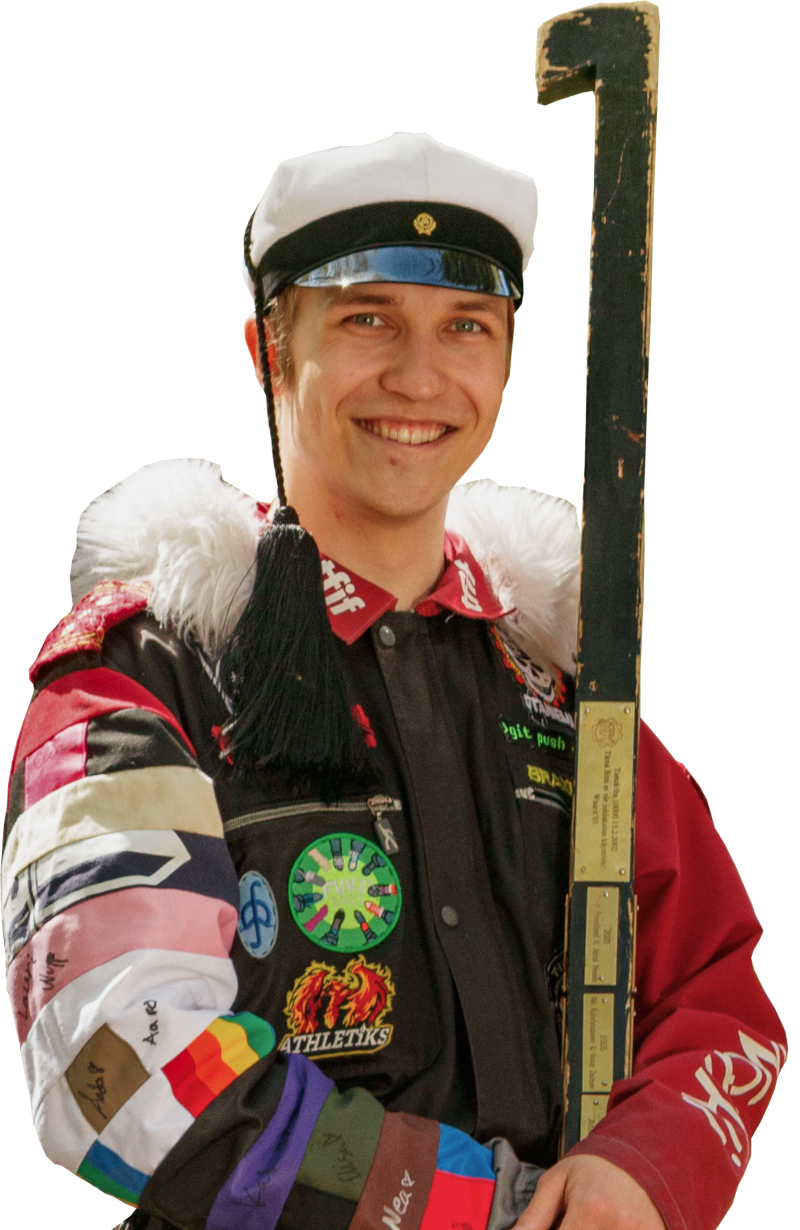
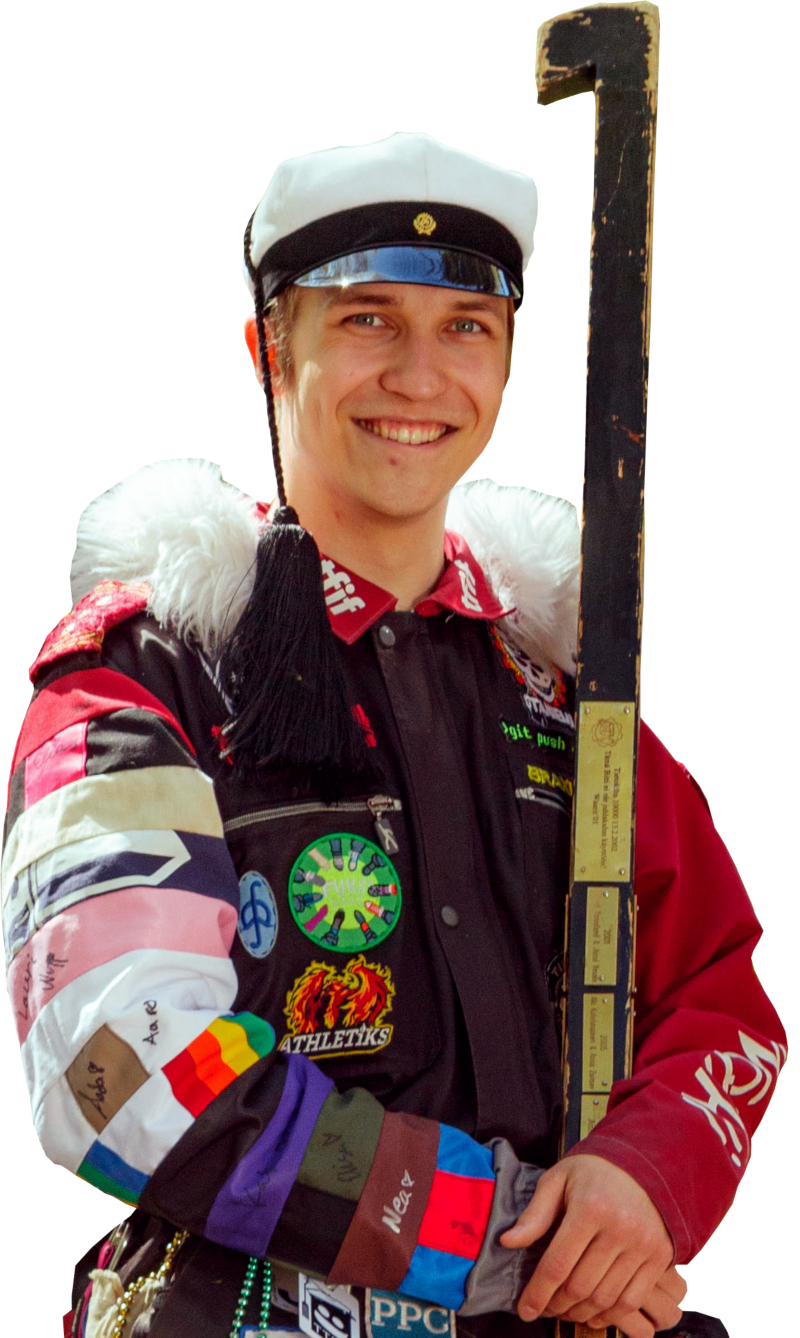
chore: update about me content

diff --git a/public/pages/about/en.html b/public/pages/about/en.html
@@ -1,23 +1,22 @@
 <h2>About Me</h2>
 <img src="images/mypicture.png" class="faded-image" />
 <p>
-  Hi, it's great that you've found your way here to my portfolio page! My name
-  is <span>Joonatan</span> and I'm a fourth year computer science student at
-  Aalto University. I'm a long time programmer and I have more than 5 years of
-  experience in the <span>software development industry</span>. Currently I
-  specialize in full-stack web development, but in the future I would like to
-  develop other kinds of software as well. I have been programming in my spare
-  time since junior high school, and during this time I have gained a lot of
-  experience in different software projects.
+  Hi, great that you've found your way here to my portfolio page! My name is
+  <span>Joonatan</span> and I'm a fifth year computer science student at Aalto
+  University. I've been programming for quite some time now and I have more than
+  5 years of experience in the <span>software development industry</span>.
+  Currently I specialize in full-stack web development, but in the future, I
+  would like to develop other kinds of software as well. I have been programming
+  in my spare time since junior high school, and during this time I have gained
+  a lot of experience in different software projects.
 </p>
 <p>
   In my free time I like to go outdoors, play the piano and play badminton. I
-  also participate in lot of guild activities, and this year I'm the
+  also participate in lot of volunteering, and I have been the
   <span>fuksi captain</span> of the computer science guild at Aalto! As the
   fuksi captain, my job is to introduce new students to the Finnish teekkari
-  culture and student life at Aalto University. In the past I have also been the
-  chair of the guild's digital services committee and been active in guild
-  activities.
+  culture and student life at Aalto. In the past I have also been the chair of
+  the guild's digital services committee and been active in guild activities.
 </p>
 <h3>Languages</h3>
 <ul>
@@ -26,7 +25,7 @@
   <li>Swedish&emsp;-&emsp;C1</li>
 </ul>
 <h3>Programming languages:</h3>
-<p>Java, Scala, Kotlin, TypeScript, C++</p>
+<p>TypeScript, Java, Scala, Kotlin, C++</p>
 <h3>Web-related technologies:</h3>
 <p>
   React, Svelte, NextJS, NodeJS, GraphQL, ExpressJS, Sequelize, Prisma,
@@ -36,21 +35,3 @@
 <p>Git, Linux, Ansible, Terraform, OpenGL, Jenkins, Gitlab CI, Keycloak</p>
 <h3>DevOps tools:</h3>
 <p>Jira, Confluence, Figma</p>
-<h3>Other achievements</h3>
-<p>
-  I have participated twice in the national TuKoKe science competition. In the
-  spring of 2022, I and Justus Hansen programmed an agent-based simulation model
-  that we used to study the sufficiency of electric car charging infrastructure.
-  As a prize, we got to travel to Atlanta in the United States to participate in
-  the annual ISEF science competition. Our study can be found&nbsp;<a
-    href="/documents/tukoke2022.pdf"
-    >Here</a
-  >.
-</p>
-<p>
-  In the spring of 2021, I and Meeri Kuoppala made a study about the teaching of
-  programming in Finnish high schools. Our study can be found&nbsp;<a
-    href="/documents/tukoke2021.pdf"
-    >Here</a
-  >.
-</p>

diff --git a/public/pages/about/fi.html b/public/pages/about/fi.html
@@ -1,8 +1,8 @@
 <h2>Tietoa minusta</h2>
 <img src="images/mypicture.png" class="faded-image" />
 <p>
-  Hei, mahtavaa että olet löytänyt tiesi tänne mun portfoliosivulle! Mun nimi on
-  <span>Joonatan</span> ja opiskelen neljättä vuotta tietotekniikkaa
+  Hei, mahtavaa että olet löytänyt tänne mun portfoliosivulle! Mun nimi on
+  <span>Joonatan</span> ja opiskelen viidettä vuotta tietotekniikkaa
   Aalto-yliopistossa. Oon pitkään harrastanut ohjelmointia ja mulla on yli
   viiden vuoden kokemus <span>ohjelmistokehitysalalta</span>. Tällä hetkellä oon
   erikoistunut full-stack-webkehitykseen, mutta tulevaisuudessa haluisin
@@ -11,12 +11,12 @@
   ohjelmistoprojekteista.
 </p>
 <p>
-  Vapaa-ajalla tykkään ulkoilla, soittaa pianoa ja pelata sulkkista. Harrastan
-  myös paljon kiltatoimintaa, ja tänä vuonna olenkin
-  <span>Tietokillan fuksikapteeni</span>! Fuksikapteenina mun tehtävä on
+  Vapaa-ajalla tykkään ulkoilla, soittaa pianoa ja pelata sulkapalloa. Harrastan
+  myös paljon vapaaehtoistoimintaa, ja olen toiminut muun muassa
+  <span>Tietokillan fuksikapteenina</span>. Fuksikapteenina mun tehtävä on ollut
   tutustuttaa uusia opiskelijoita teekkarikulttuuriin ja Aalto-yliopiston
-  opiskelijaelämään. Oon aiemmin myös toiminut killan digivastaavana sekä ollut
-  muuten aktiivinen kiltatoiminnassa.
+  opiskelijaelämään. Oon myös toiminut killan digivastaavana sekä ollut muuten
+  aktiivinen kiltatoiminnassa.
 </p>
 <h3>Kielet</h3>
 <ul>
@@ -25,7 +25,7 @@
   <li>Ruotsi&emsp;-&emsp;C1</li>
 </ul>
 <h3>Ohjelmointikielet:</h3>
-<p>Java, Scala, Kotlin, TypeScript, C++</p>
+<p>TypeScript, Java, Scala, Kotlin, C++</p>
 <h3>Nettiteknologiat:</h3>
 <p>
   React, Svelte, NextJS, NodeJS, GraphQL, ExpressJS, Sequelize, Prisma,
@@ -35,21 +35,3 @@
 <p>Git, Linux, Ansible, Terraform, OpenGL, Jenkins, Gitlab CI, Keycloak</p>
 <h3>DevOps-työkalut:</h3>
 <p>Jira, Confluence, Figma</p>
-<h3>Muut saavutukset</h3>
-<p>
-  Olen osallistunut kahdesti valtakunnalliseen TuKoKe-tutkielmakilpailuun.
-  Keväällä 2022 ohjelmoin yhdessä Justus Hansenin kanssa agenttipohjaisen
-  simulointimallin, jonka avulla tutkimme sähköautojen latausinfrastruktuurin
-  riittävyyttä. Palkintona saimme matkustaa Yhdysvaltoihin Atlantaan
-  osallistumaan vuosittaiseen ISEF-tiedekilpailuun. Tutkimuksemme löytyy&nbsp;<a
-    href="/documents/tukoke2022.pdf"
-    >täältä</a
-  >.
-</p>
-<p>
-  Keväällä 2021 tein Meeri Kuoppalan kanssa tutkimuksen ohjelmoinnin opetuksesta
-  suomalaisissa lukioissa. Tutkimuksemme löytyy&nbsp;<a
-    href="/documents/tukoke2021.pdf"
-    >täältä</a
-  >.
-</p>

diff --git a/public/pages/about/sv.html b/public/pages/about/sv.html
@@ -1,8 +1,8 @@
 <h2>Om mig</h2>
 <img src="images/mypicture.png" class="faded-image" />
 <p>
-  Hej, vad roligt att du har hittat hit till min portfoliosida! Jag heter
-  <span>Joonatan</span> och jag studerar datateknik på fjärde året vid
+  Hej, vad kul att du har hittat hit till min portfoliosida! Jag heter
+  <span>Joonatan</span> och jag studerar datateknik på femte året vid
   Aalto-universitetet. Jag har programmerat redan länge och har mer än 5 års
   erfarenhet inom <span>mjukvaruutvecklingsbranschen</span>. För närvarande
   specialiserar jag mig på full-stack webbutveckling, men i framtiden skulle jag
@@ -12,8 +12,8 @@
 </p>
 <p>
   På fritiden gillar jag att vara utomhus, spela piano och badminton. Jag deltar
-  också mycket i gillesverksamhetet, och i år är jag även
-  <span>phuxkapten på Tietokilta</span>! Som phuxkapten är mitt jobb att
+  också mycket i voluntärarbete, och jag har även varit
+  <span>phuxkapten på Tietokilta</span>! Som phuxkapten har mitt jobb varit att
   introducera nya studenter till teknologkulturen och studentlivet vid
   Aalto-universitetet. Tidigare har jag också varit digitalkommitténs ordförande
   och annars varit aktiv i gillets verksamhet.
@@ -25,7 +25,7 @@
   <li>Svenska&emsp;-&emsp;C1</li>
 </ul>
 <h3>Programmeringsspråk:</h3>
-<p>Java, Scala, Kotlin, TypeScript, C++</p>
+<p>TypeScript, Java, Scala, Kotlin, C++</p>
 <h3>Webbteknologier:</h3>
 <p>
   React, Svelte, NextJS, NodeJS, GraphQL, ExpressJS, Sequelize, Prisma,
@@ -35,21 +35,3 @@
 <p>Git, Linux, Ansible, Terraform, OpenGL, Jenkins, Gitlab CI, Keycloak</p>
 <h3>DevOps-verktyg:</h3>
 <p>Jira, Confluence, Figma</p>
-<h3>Andra prestationer</h3>
-<p>
-  Jag har deltagit två gånger i den nationella vetenskapstävlingen TuKoKe. Våren
-  2022 programmerade jag och Justus Hansen en agentbaserad simuleringsmodell som
-  vi använde för att undersöka om infrastrukturen för laddning av elbilar är
-  tillräcklig. Som pris fick vi resa till Atlanta i USA för att delta i den
-  årliga vetenskapstävlingen ISEF. Vår studie kan hittas&nbsp;<a
-    href="/documents/tukoke2022.pdf"
-    >här</a
-  >.
-</p>
-<p>
-  Våren 2021 gjorde jag och Meeri Kuoppala en studie om undervisningen i
-  programmering i finska gymnasieskolor. Vår studie kan hittas&nbsp;<a
-    href="/documents/tukoke2021.pdf"
-    >här</a
-  >.
-</p>

diff --git a/src/app/[locale]/lib/components/footer/index.tsx b/src/app/[locale]/lib/components/footer/index.tsx
@@ -44,7 +44,7 @@ function Footer({ locale }: { locale: LocaleTypes }) {
             variant="subtle"
             size="md"
             component={Link}
-            href="https://t.me/BitTiKippari"
+            href="https://t.me/joonatanaatos"
           >
             <IconBrandTelegram size="md" />
           </ActionIcon>

diff --git a/src/app/[locale]/[page]/index.module.css b/src/app/[locale]/[page]/index.module.css
@@ -13,6 +13,7 @@
   }
 
   h2 {
+    margin-top: 1rem !important;
     margin-bottom: 1.5rem;
   }
 
